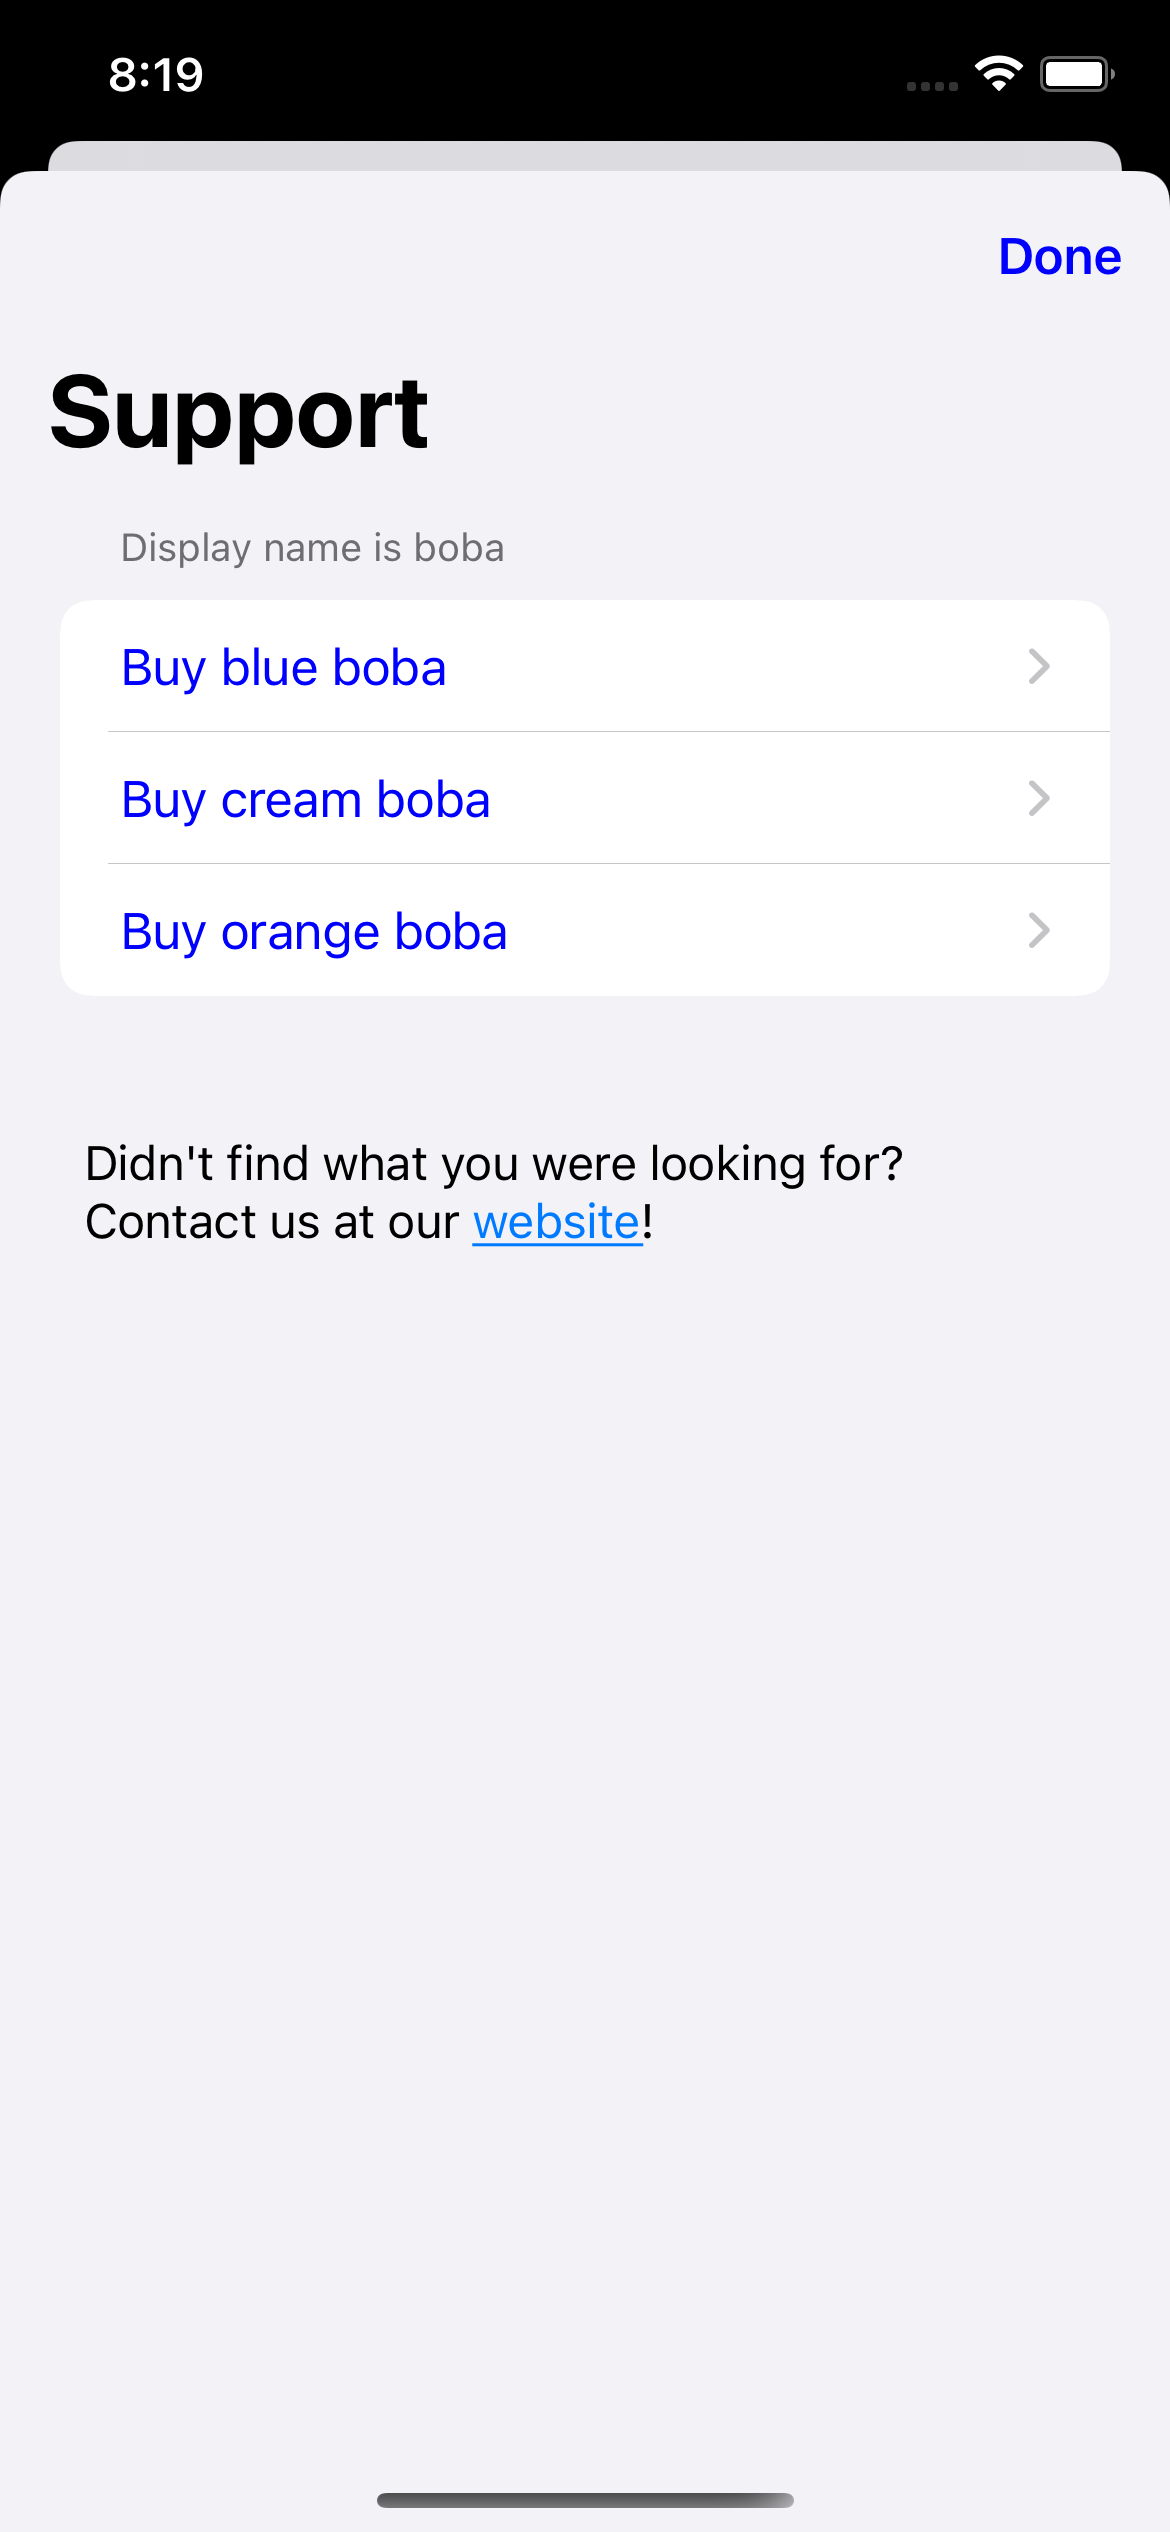
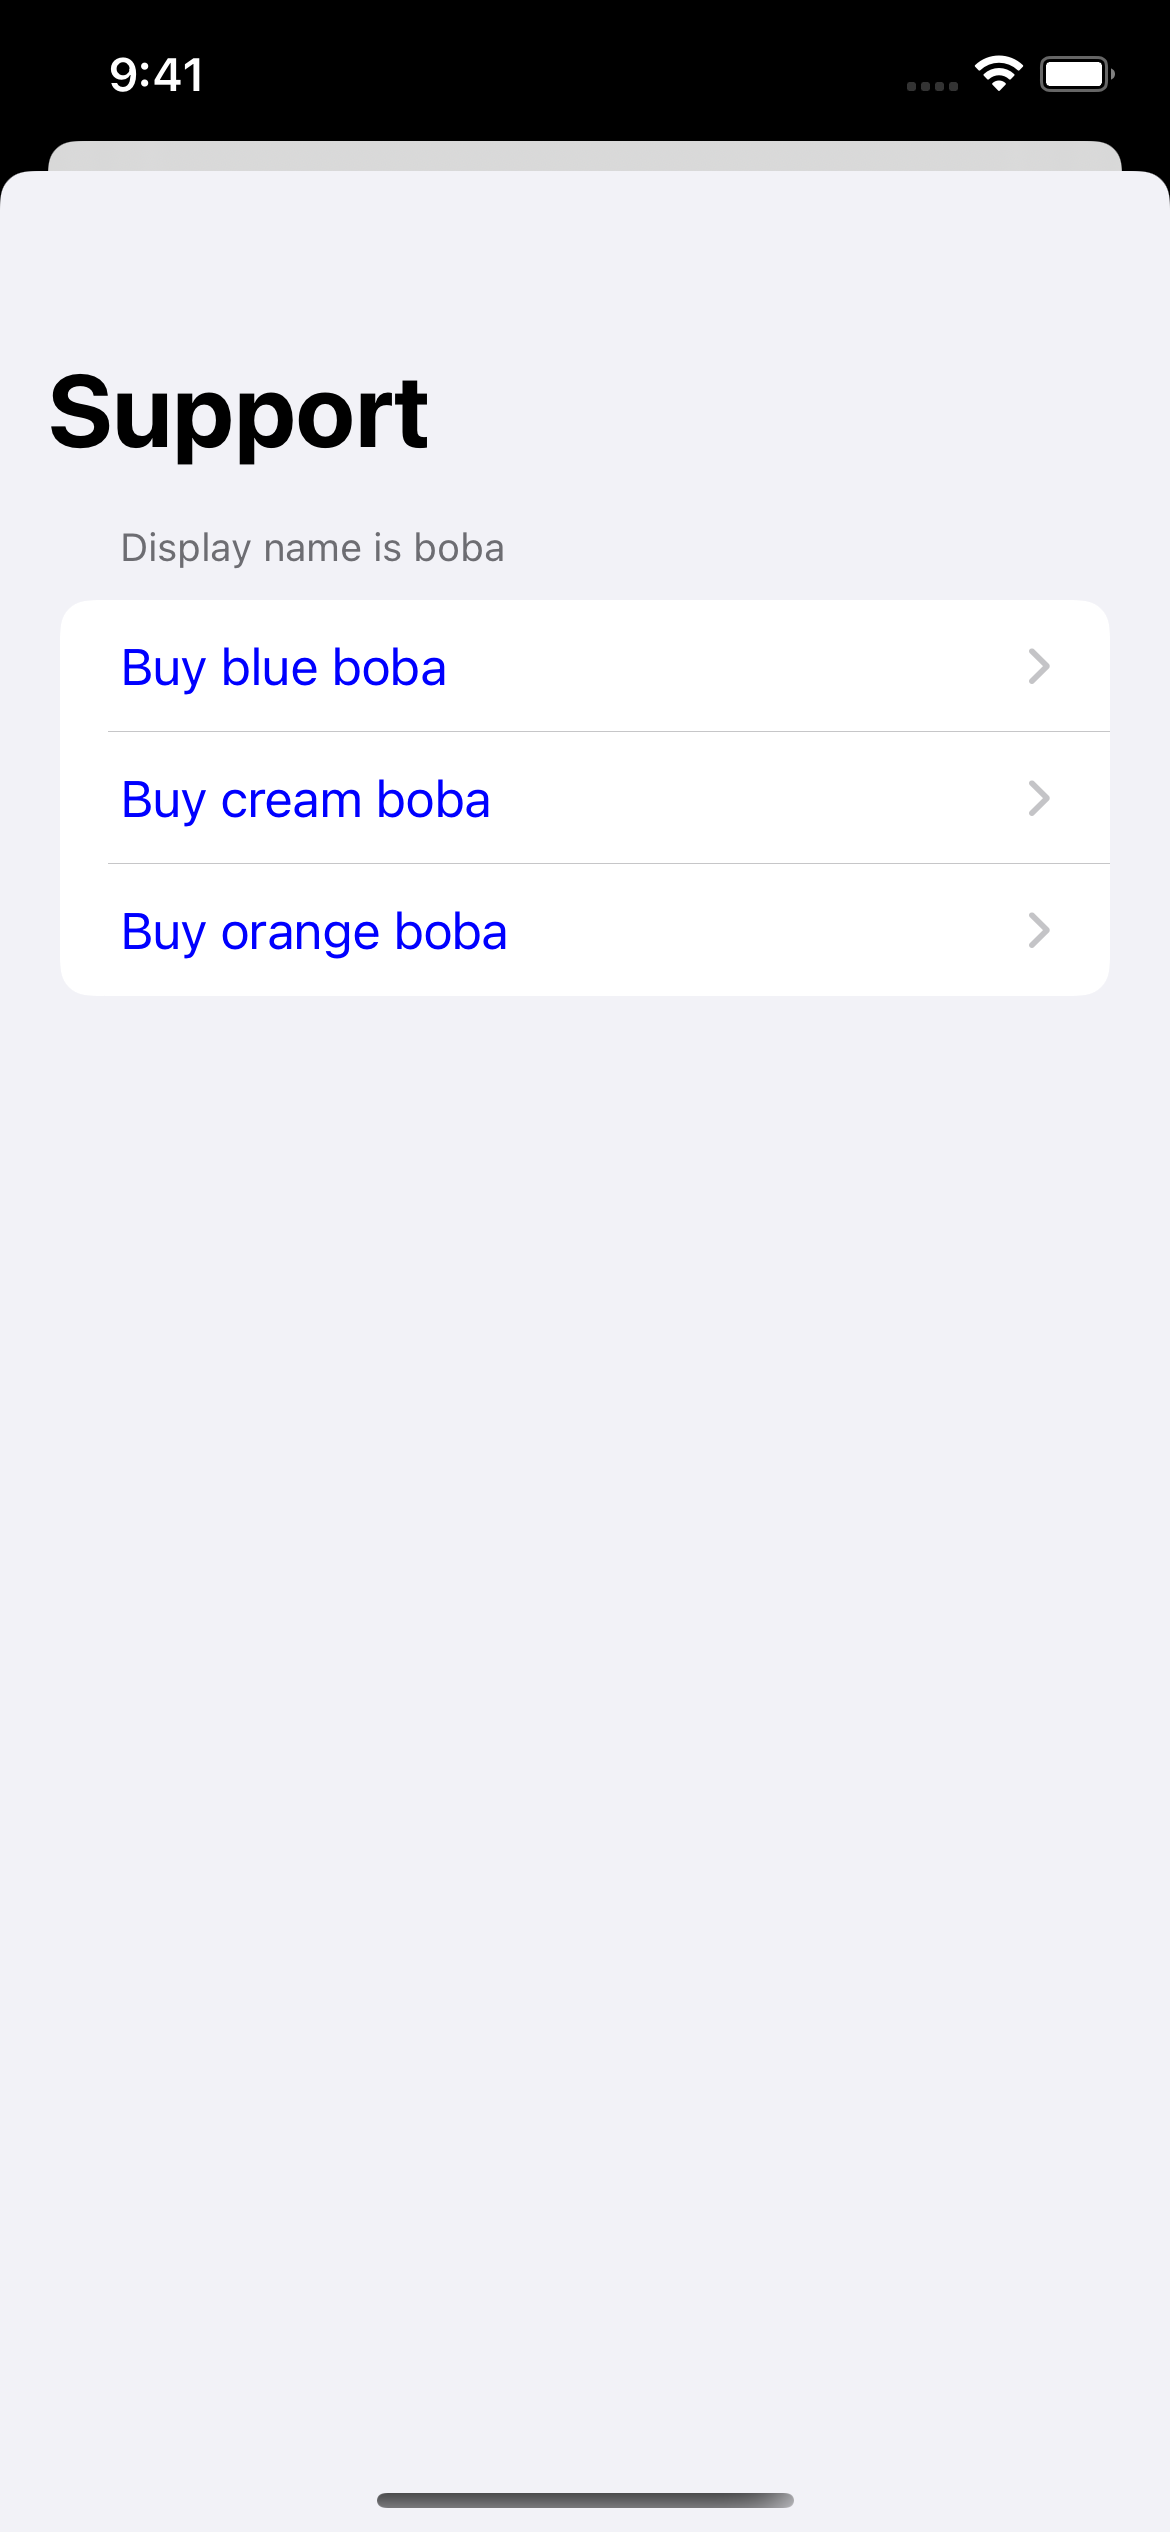
Update screenshots

Changed region(s): [[0.0615, 0.4368, 0.7692, 0.4992], [0.8615, 0.0936, 0.9538, 0.1248], [0.1231, 0.0, 0.1846, 0.0312]]

diff --git a/Example/Example/UIKitExampleController.swift b/Example/Example/UIKitExampleController.swift
@@ -40,32 +40,28 @@ class UIKitExampleController: UIViewController {
     @IBOutlet weak var presentButton: UIButton!
     @IBAction func presentButtonPressed(_ sender: Any) {
         
-//        let dataSource = URL(string: "https://raw.githubusercontent.com/aheze/SupportDocs/DataSource/_data/supportdocs_datasource.json")!
-//
-//        // MARK: - UIKit way to make `SupportOptions`
-//        var options = SupportOptions()
-//        options.categories = [SupportOptions.Category(tag: "boba", displayName: "Boba is awesome!")]
-//        options.navigationBar.title = "Support"
-//        options.navigationBar.titleColor = UIColor.white
-//        options.navigationBar.dismissButtonView = AnyView(Text("Done"))
-//        options.navigationBar.buttonTintColor = UIColor.white
-//        options.navigationBar.backgroundColor = UIColor(red: 6 / 255, green: 151 / 255, blue: 0 / 255, alpha: 1)
-//        options.progressBar.foregroundColor = UIColor.green
-//        options.progressBar.backgroundColor = UIColor.systemBackground
-//        options.listStyle = .insetGroupedListStyle
-//        options.navigationViewStyle = .defaultNavigationViewStyle
-//        options.other.activityIndicatorStyle = .large
-//        options.other.welcomeView = AnyView(WelcomeView())
-//        options.other.footer = AnyView(Footer())
-//        options.other.error404 = URL(string: "https://aheze.github.io/SupportDocs/404")!
-//
-//        let supportDocsViewController = SupportDocsViewController(dataSourceURL: dataSource, options: options)
-//        self.present(supportDocsViewController, animated: true, completion: nil)
-        
         let dataSource = URL(string: "https://raw.githubusercontent.com/aheze/SupportDocs/DataSource/_data/supportdocs_datasource.json")!
-        
-        let supportDocsViewController = SupportDocsViewController(dataSourceURL: dataSource)
+
+        // MARK: - UIKit way to make `SupportOptions`
+        var options = SupportOptions()
+        options.categories = [SupportOptions.Category(tag: "boba", displayName: "Boba is awesome!")]
+        options.navigationBar.title = "Support"
+        options.navigationBar.titleColor = UIColor.white
+        options.navigationBar.dismissButtonView = AnyView(Text("Done"))
+        options.navigationBar.buttonTintColor = UIColor.white
+        options.navigationBar.backgroundColor = UIColor(red: 6 / 255, green: 151 / 255, blue: 0 / 255, alpha: 1)
+        options.progressBar.foregroundColor = UIColor.green
+        options.progressBar.backgroundColor = UIColor.systemBackground
+        options.listStyle = .insetGroupedListStyle
+        options.navigationViewStyle = .defaultNavigationViewStyle
+        options.other.activityIndicatorStyle = .large
+        options.other.welcomeView = AnyView(WelcomeView())
+        options.other.footer = AnyView(Footer())
+        options.other.error404 = URL(string: "https://aheze.github.io/SupportDocs/404")!
+
+        let supportDocsViewController = SupportDocsViewController(dataSourceURL: dataSource, options: options)
         self.present(supportDocsViewController, animated: true, completion: nil)
+        
     }
 }
 

diff --git a/Example/Example/SwiftUIExampleView.swift b/Example/Example/SwiftUIExampleView.swift
@@ -14,27 +14,12 @@ struct SwiftUIExampleView: View {
     
     let options = SupportOptions(
         categories: [
-            .init(tag: "boba", displayName: "Boba is awesome!")
-        ],
-        navigationBar: .init(
-            title: "Support",
-            titleColor: UIColor.white,
-            dismissButtonTitle: "Done",
-            buttonTintColor: UIColor.white,
-            backgroundColor: UIColor(red: 6 / 255, green: 151 / 255, blue: 0 / 255, alpha: 1)
-        ),
-        progressBar: .init(
-            foregroundColor: UIColor.green,
-            backgroundColor: UIColor.systemBackground
-        ),
-        listStyle: .defaultListStyle,
-        navigationViewStyle: .defaultNavigationViewStyle,
-        other: .init(
-            activityIndicatorStyle: UIActivityIndicatorView.Style.large,
-            welcomeView: AnyView(WelcomeView()),
-            footer: AnyView(Footer()),
-            error404: URL(string: "https://aheze.github.io/SupportDocs/404")!
-        )
+            .init(
+                tags: ["boba", "fastFood"],
+                displayName: "Food that tastes great",
+                displayColor: UIColor.orange
+            )
+        ]
     )
     
     @State var supportDocsPresented = false

diff --git a/Documentation/Examples/UIKit/SupportOptions.swift b/Documentation/Examples/UIKit/SupportOptions.swift
@@ -19,7 +19,7 @@ class SupportOptionsExample: UIViewController {
         options.categories = [SupportOptions.Category(tags: ["boba"], displayName: "Boba is awesome!")]
         options.navigationBar.title = "Support"
         options.navigationBar.titleColor = UIColor.white
-        options.navigationBar.dismissButtonTitle = "Done"
+        options.navigationBar.dismissButtonView = AnyView(Text("Done"))
         options.navigationBar.buttonTintColor = UIColor.white
         options.navigationBar.backgroundColor = UIColor(red: 6 / 255, green: 151 / 255, blue: 0 / 255, alpha: 1)
         options.progressBar.foregroundColor = UIColor.green
